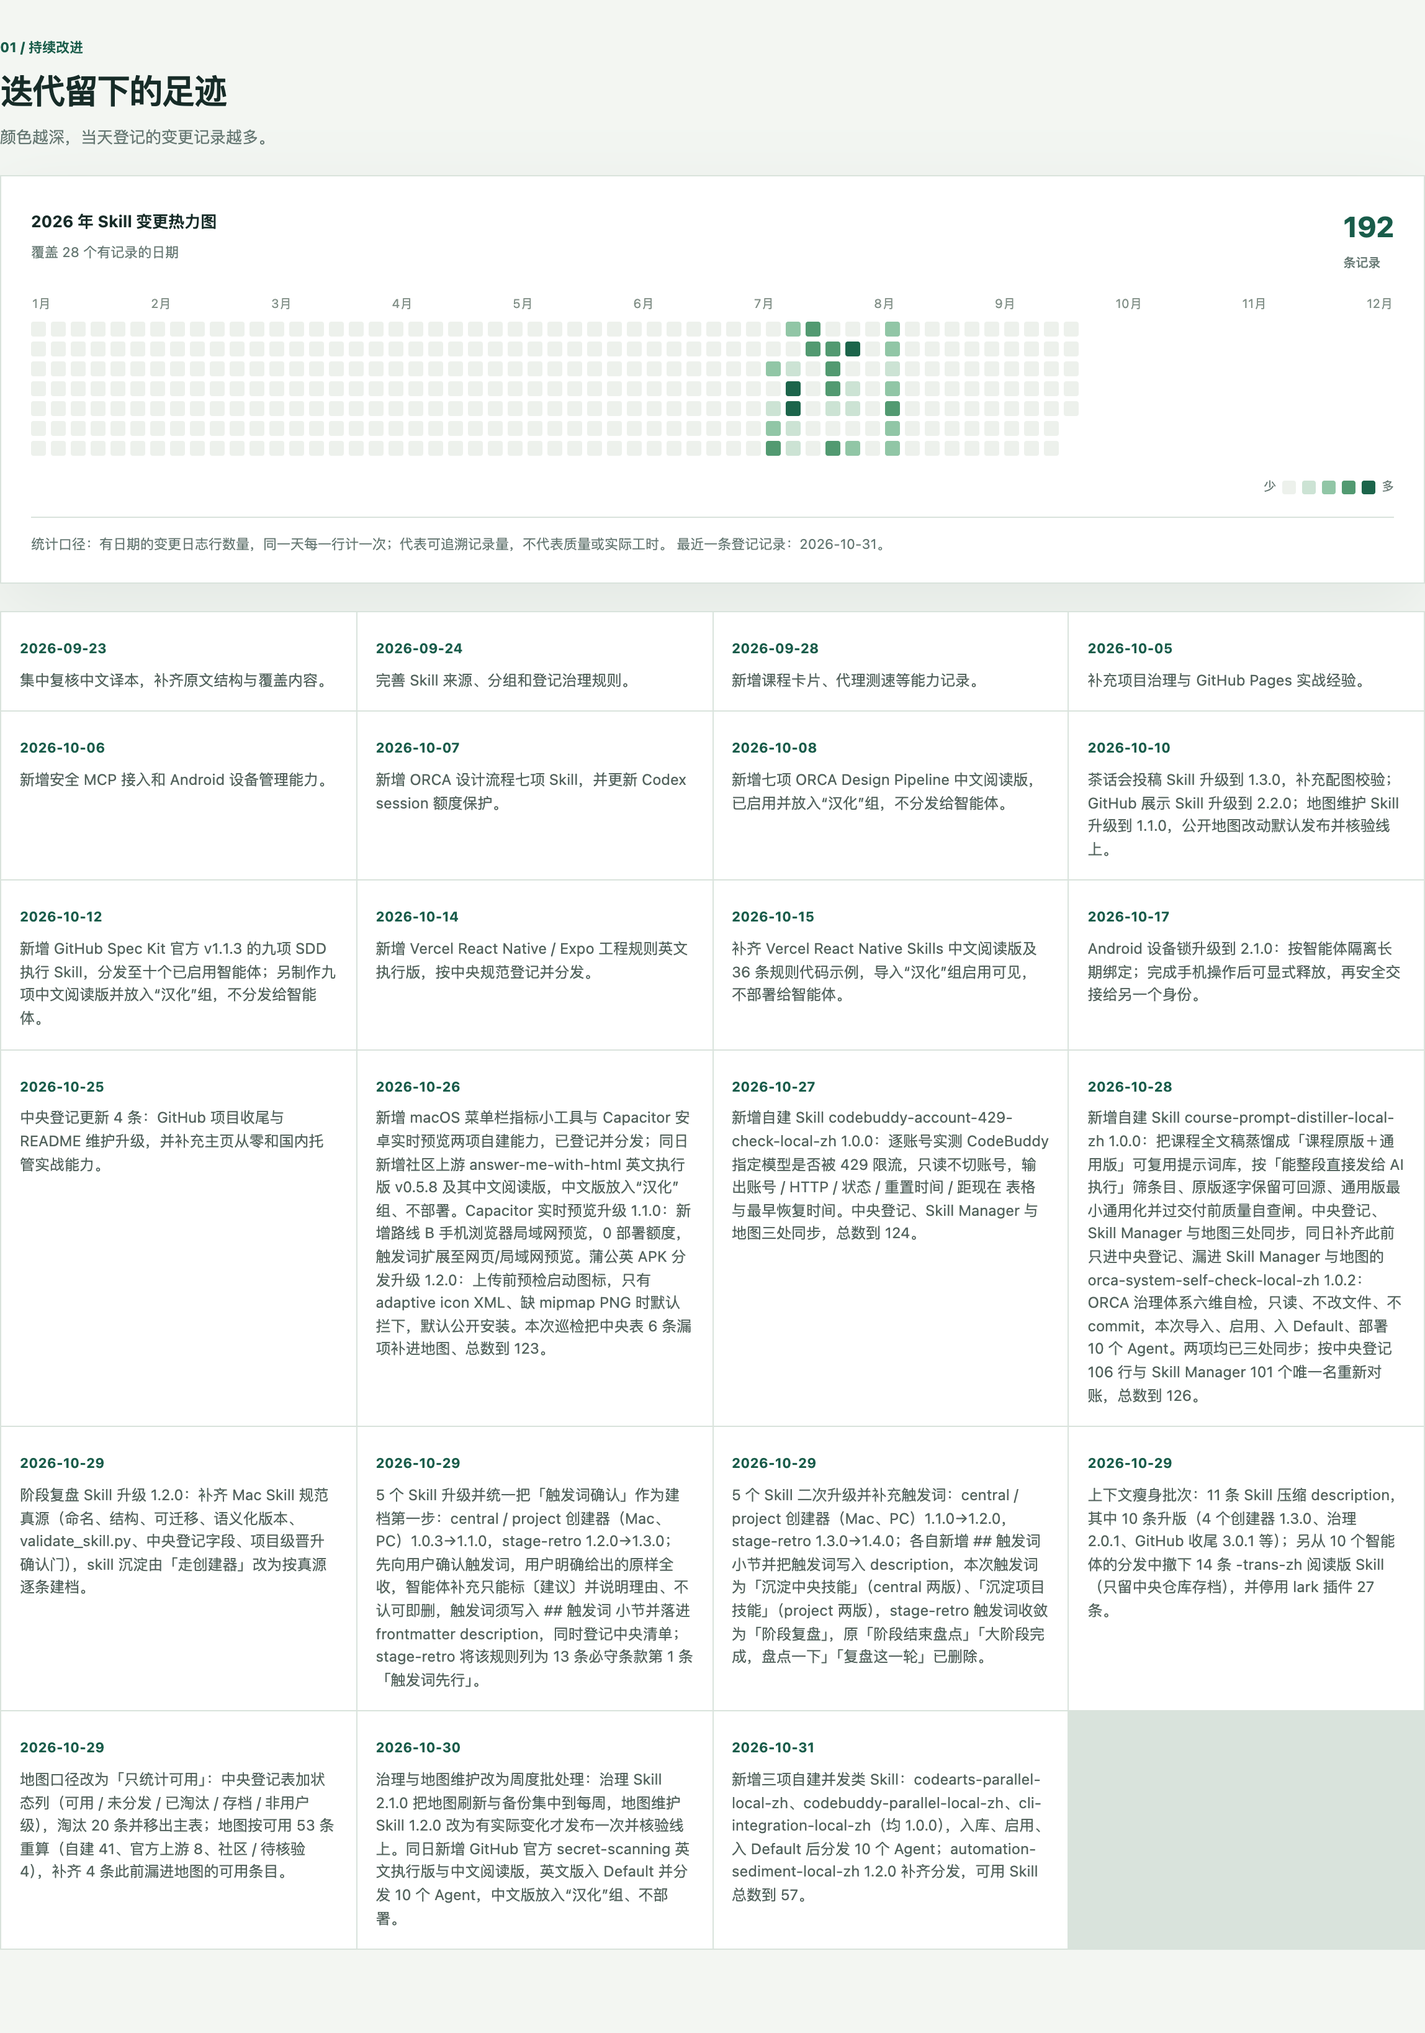
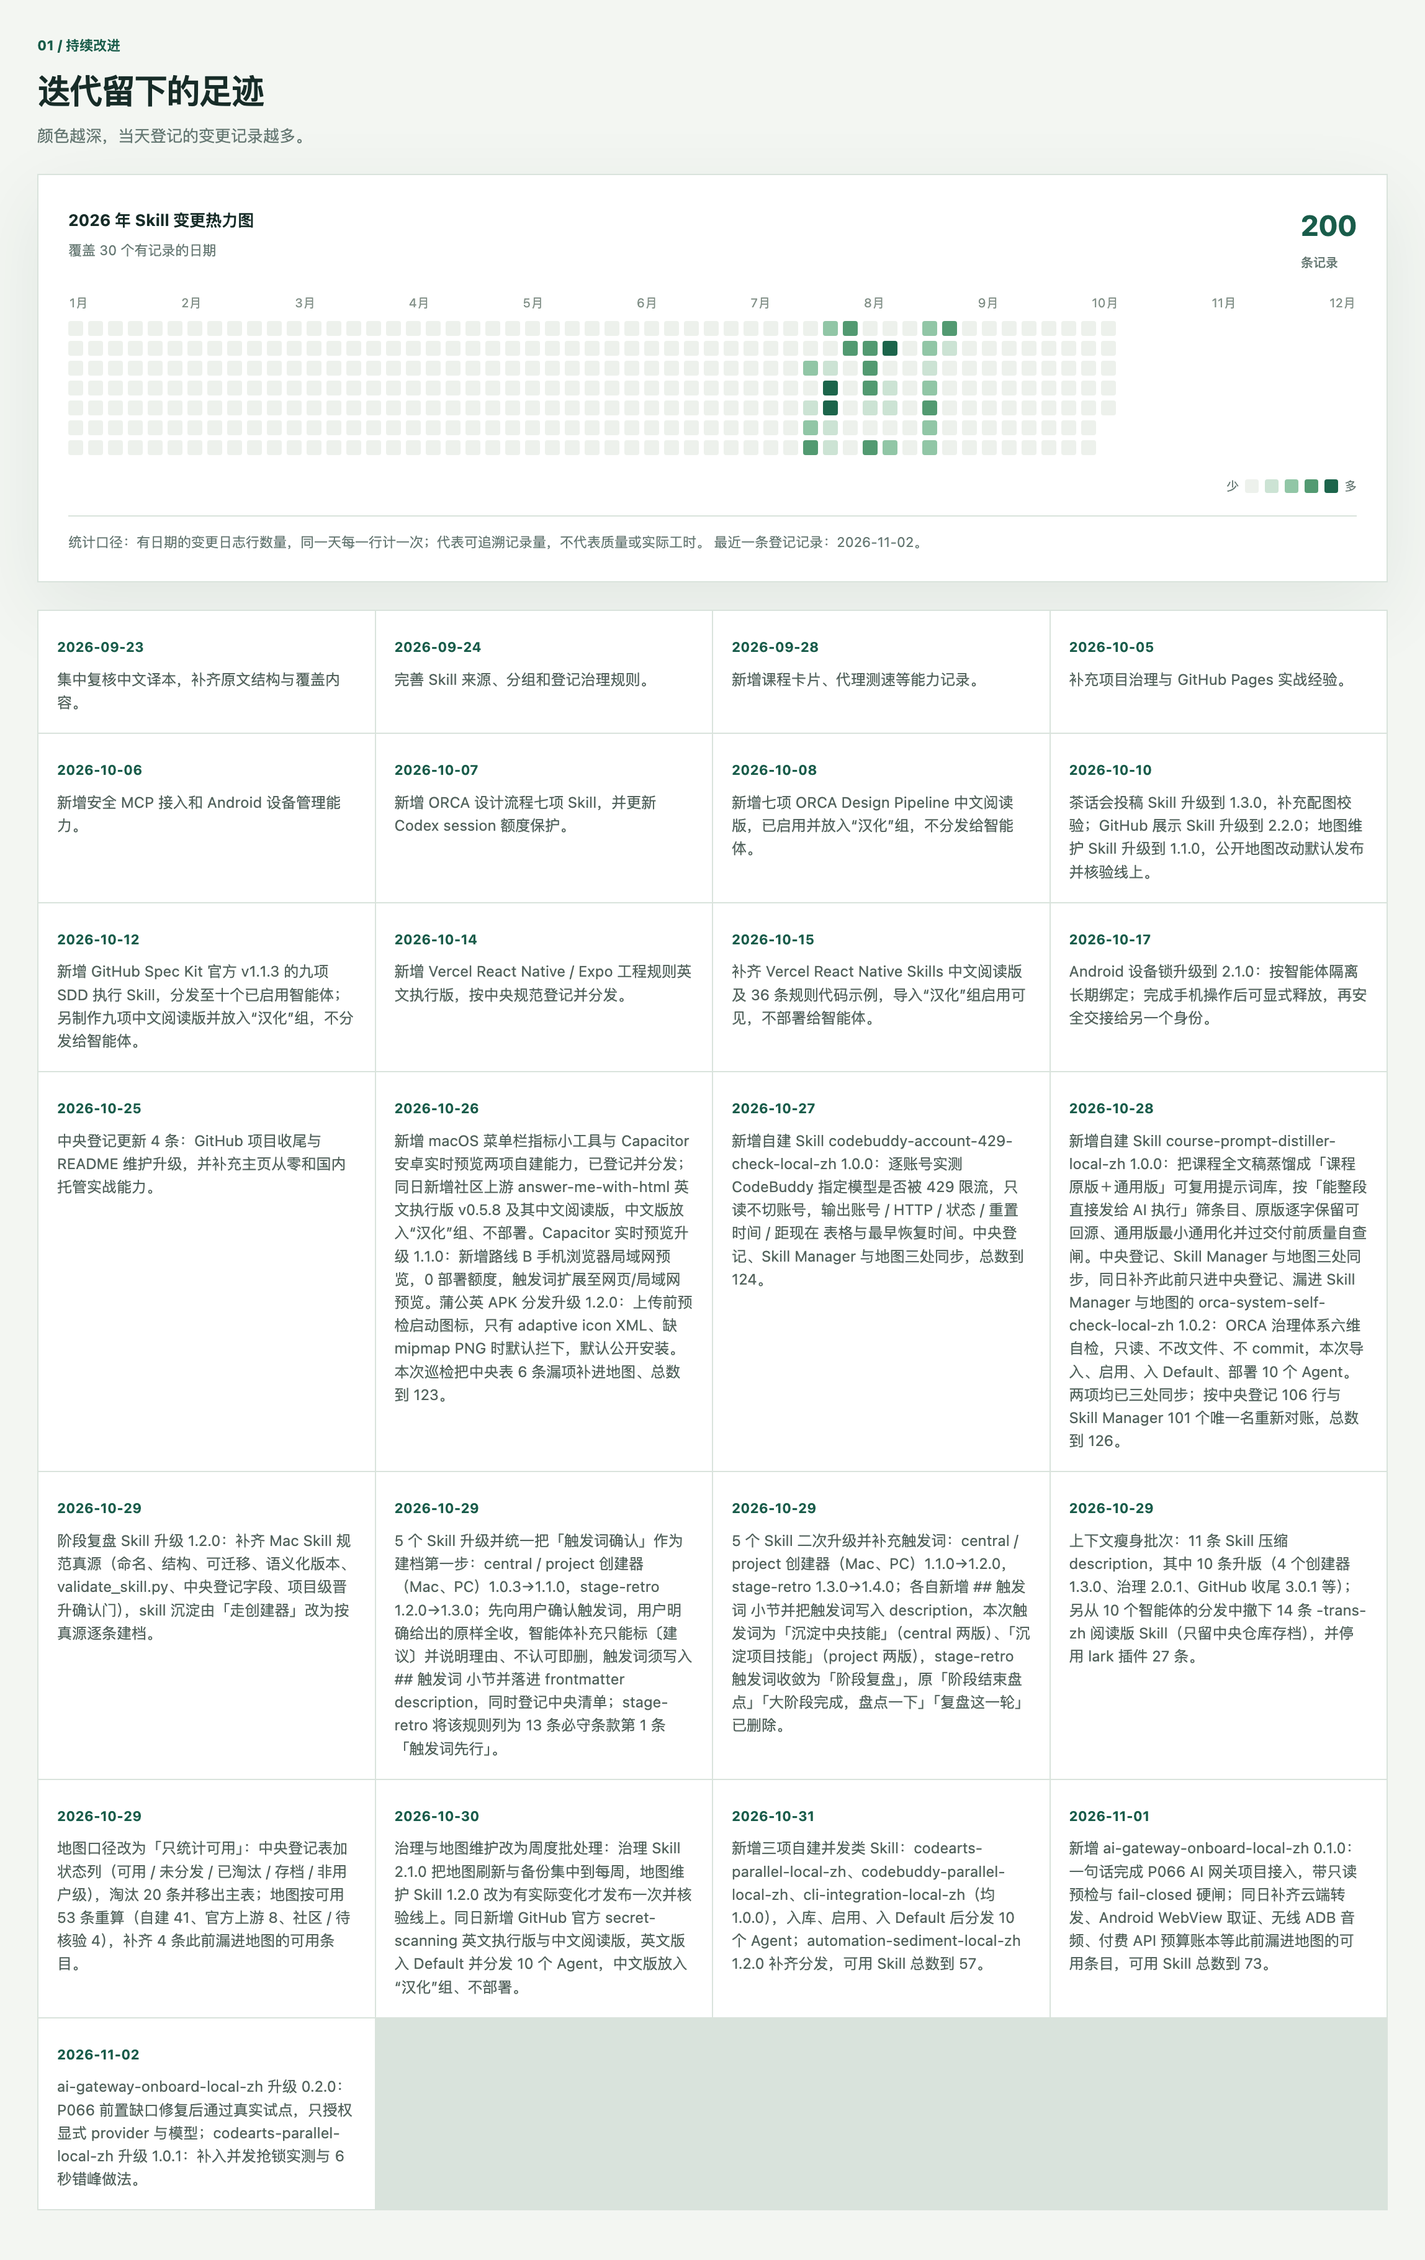
更新 Skill 地图至 2026-11-02：两条升级（ai-gateway 0.2.0、codearts-parallel 1.0.1）

diff --git a/index.html b/index.html
@@ -119,7 +119,7 @@
     }
     document.getElementById('heatMonths').innerHTML=['1月','2月','3月','4月','5月','6月','7月','8月','9月','10月','11月','12月'].map(x=>`<span>${x}</span>`).join('');
     const dated=[...data.events].sort((a,b)=>b.date.localeCompare(a.date));const latest=dated[0]?.date||'—';document.getElementById('heatCaption').textContent=`统计口径：${data.countDefinition} 最近一条登记记录：${latest}。`;
-    const highlights=[['2026-09-23','集中复核中文译本，补齐原文结构与覆盖内容。'],['2026-09-24','完善 Skill 来源、分组和登记治理规则。'],['2026-09-28','新增课程卡片、代理测速等能力记录。'],['2026-10-05','补充项目治理与 GitHub Pages 实战经验。'],['2026-10-06','新增安全 MCP 接入和 Android 设备管理能力。'],['2026-10-07','新增 ORCA 设计流程七项 Skill，并更新 Codex session 额度保护。'],['2026-10-08','新增七项 ORCA Design Pipeline 中文阅读版，已启用并放入“汉化”组，不分发给智能体。'],['2026-10-10','茶话会投稿 Skill 升级到 1.3.0，补充配图校验；GitHub 展示 Skill 升级到 2.2.0；地图维护 Skill 升级到 1.1.0，公开地图改动默认发布并核验线上。'],['2026-10-12','新增 GitHub Spec Kit 官方 v1.1.3 的九项 SDD 执行 Skill，分发至十个已启用智能体；另制作九项中文阅读版并放入“汉化”组，不分发给智能体。'],['2026-10-14','新增 Vercel React Native / Expo 工程规则英文执行版，按中央规范登记并分发。'],['2026-10-15','补齐 Vercel React Native Skills 中文阅读版及 36 条规则代码示例，导入“汉化”组启用可见，不部署给智能体。'],['2026-10-17','Android 设备锁升级到 2.1.0：按智能体隔离长期绑定；完成手机操作后可显式释放，再安全交接给另一个身份。'],['2026-10-25','中央登记更新 4 条：GitHub 项目收尾与 README 维护升级，并补充主页从零和国内托管实战能力。'],['2026-10-26','新增 macOS 菜单栏指标小工具与 Capacitor 安卓实时预览两项自建能力，已登记并分发；同日新增社区上游 answer-me-with-html 英文执行版 v0.5.8 及其中文阅读版，中文版放入“汉化”组、不部署。Capacitor 实时预览升级 1.1.0：新增路线 B 手机浏览器局域网预览，0 部署额度，触发词扩展至网页/局域网预览。蒲公英 APK 分发升级 1.2.0：上传前预检启动图标，只有 adaptive icon XML、缺 mipmap PNG 时默认拦下，默认公开安装。本次巡检把中央表 6 条漏项补进地图、总数到 123。'],['2026-10-27','新增自建 Skill codebuddy-account-429-check-local-zh 1.0.0：逐账号实测 CodeBuddy 指定模型是否被 429 限流，只读不切账号，输出账号 / HTTP / 状态 / 重置时间 / 距现在 表格与最早恢复时间。中央登记、Skill Manager 与地图三处同步，总数到 124。'],['2026-10-28','新增自建 Skill course-prompt-distiller-local-zh 1.0.0：把课程全文稿蒸馏成「课程原版＋通用版」可复用提示词库，按「能整段直接发给 AI 执行」筛条目、原版逐字保留可回源、通用版最小通用化并过交付前质量自查闸。中央登记、Skill Manager 与地图三处同步，同日补齐此前只进中央登记、漏进 Skill Manager 与地图的 orca-system-self-check-local-zh 1.0.2：ORCA 治理体系六维自检，只读、不改文件、不 commit，本次导入、启用、入 Default、部署 10 个 Agent。两项均已三处同步；按中央登记 106 行与 Skill Manager 101 个唯一名重新对账，总数到 126。'],['2026-10-29','阶段复盘 Skill 升级 1.2.0：补齐 Mac Skill 规范真源（命名、结构、可迁移、语义化版本、validate_skill.py、中央登记字段、项目级晋升确认门），skill 沉淀由「走创建器」改为按真源逐条建档。'],['2026-10-29','5 个 Skill 升级并统一把「触发词确认」作为建档第一步：central / project 创建器（Mac、PC）1.0.3→1.1.0，stage-retro 1.2.0→1.3.0；先向用户确认触发词，用户明确给出的原样全收，智能体补充只能标〔建议〕并说明理由、不认可即删，触发词须写入 ## 触发词 小节并落进 frontmatter description，同时登记中央清单；stage-retro 将该规则列为 13 条必守条款第 1 条「触发词先行」。'],['2026-10-29','5 个 Skill 二次升级并补充触发词：central / project 创建器（Mac、PC）1.1.0→1.2.0，stage-retro 1.3.0→1.4.0；各自新增 ## 触发词 小节并把触发词写入 description，本次触发词为「沉淀中央技能」（central 两版）、「沉淀项目技能」（project 两版），stage-retro 触发词收敛为「阶段复盘」，原「阶段结束盘点」「大阶段完成，盘点一下」「复盘这一轮」已删除。'],['2026-10-29','上下文瘦身批次：11 条 Skill 压缩 description，其中 10 条升版（4 个创建器 1.3.0、治理 2.0.1、GitHub 收尾 3.0.1 等）；另从 10 个智能体的分发中撤下 14 条 -trans-zh 阅读版 Skill（只留中央仓库存档），并停用 lark 插件 27 条。'],['2026-10-29','地图口径改为「只统计可用」：中央登记表加状态列（可用 / 未分发 / 已淘汰 / 存档 / 非用户级），淘汰 20 条并移出主表；地图按可用 53 条重算（自建 41、官方上游 8、社区 / 待核验 4），补齐 4 条此前漏进地图的可用条目。'],['2026-10-30','治理与地图维护改为周度批处理：治理 Skill 2.1.0 把地图刷新与备份集中到每周，地图维护 Skill 1.2.0 改为有实际变化才发布一次并核验线上。同日新增 GitHub 官方 secret-scanning 英文执行版与中文阅读版，英文版入 Default 并分发 10 个 Agent，中文版放入“汉化”组、不部署。'],['2026-10-31','新增三项自建并发类 Skill：codearts-parallel-local-zh、codebuddy-parallel-local-zh、cli-integration-local-zh（均 1.0.0），入库、启用、入 Default 后分发 10 个 Agent；automation-sediment-local-zh 1.2.0 补齐分发，可用 Skill 总数到 57。'],['2026-11-01','新增 ai-gateway-onboard-local-zh 0.1.0：一句话完成 P066 AI 网关项目接入，带只读预检与 fail-closed 硬闸；同日补齐云端转发、Android WebView 取证、无线 ADB 音频、付费 API 预算账本等此前漏进地图的可用条目，可用 Skill 总数到 73。']];
+    const highlights=[['2026-09-23','集中复核中文译本，补齐原文结构与覆盖内容。'],['2026-09-24','完善 Skill 来源、分组和登记治理规则。'],['2026-09-28','新增课程卡片、代理测速等能力记录。'],['2026-10-05','补充项目治理与 GitHub Pages 实战经验。'],['2026-10-06','新增安全 MCP 接入和 Android 设备管理能力。'],['2026-10-07','新增 ORCA 设计流程七项 Skill，并更新 Codex session 额度保护。'],['2026-10-08','新增七项 ORCA Design Pipeline 中文阅读版，已启用并放入“汉化”组，不分发给智能体。'],['2026-10-10','茶话会投稿 Skill 升级到 1.3.0，补充配图校验；GitHub 展示 Skill 升级到 2.2.0；地图维护 Skill 升级到 1.1.0，公开地图改动默认发布并核验线上。'],['2026-10-12','新增 GitHub Spec Kit 官方 v1.1.3 的九项 SDD 执行 Skill，分发至十个已启用智能体；另制作九项中文阅读版并放入“汉化”组，不分发给智能体。'],['2026-10-14','新增 Vercel React Native / Expo 工程规则英文执行版，按中央规范登记并分发。'],['2026-10-15','补齐 Vercel React Native Skills 中文阅读版及 36 条规则代码示例，导入“汉化”组启用可见，不部署给智能体。'],['2026-10-17','Android 设备锁升级到 2.1.0：按智能体隔离长期绑定；完成手机操作后可显式释放，再安全交接给另一个身份。'],['2026-10-25','中央登记更新 4 条：GitHub 项目收尾与 README 维护升级，并补充主页从零和国内托管实战能力。'],['2026-10-26','新增 macOS 菜单栏指标小工具与 Capacitor 安卓实时预览两项自建能力，已登记并分发；同日新增社区上游 answer-me-with-html 英文执行版 v0.5.8 及其中文阅读版，中文版放入“汉化”组、不部署。Capacitor 实时预览升级 1.1.0：新增路线 B 手机浏览器局域网预览，0 部署额度，触发词扩展至网页/局域网预览。蒲公英 APK 分发升级 1.2.0：上传前预检启动图标，只有 adaptive icon XML、缺 mipmap PNG 时默认拦下，默认公开安装。本次巡检把中央表 6 条漏项补进地图、总数到 123。'],['2026-10-27','新增自建 Skill codebuddy-account-429-check-local-zh 1.0.0：逐账号实测 CodeBuddy 指定模型是否被 429 限流，只读不切账号，输出账号 / HTTP / 状态 / 重置时间 / 距现在 表格与最早恢复时间。中央登记、Skill Manager 与地图三处同步，总数到 124。'],['2026-10-28','新增自建 Skill course-prompt-distiller-local-zh 1.0.0：把课程全文稿蒸馏成「课程原版＋通用版」可复用提示词库，按「能整段直接发给 AI 执行」筛条目、原版逐字保留可回源、通用版最小通用化并过交付前质量自查闸。中央登记、Skill Manager 与地图三处同步，同日补齐此前只进中央登记、漏进 Skill Manager 与地图的 orca-system-self-check-local-zh 1.0.2：ORCA 治理体系六维自检，只读、不改文件、不 commit，本次导入、启用、入 Default、部署 10 个 Agent。两项均已三处同步；按中央登记 106 行与 Skill Manager 101 个唯一名重新对账，总数到 126。'],['2026-10-29','阶段复盘 Skill 升级 1.2.0：补齐 Mac Skill 规范真源（命名、结构、可迁移、语义化版本、validate_skill.py、中央登记字段、项目级晋升确认门），skill 沉淀由「走创建器」改为按真源逐条建档。'],['2026-10-29','5 个 Skill 升级并统一把「触发词确认」作为建档第一步：central / project 创建器（Mac、PC）1.0.3→1.1.0，stage-retro 1.2.0→1.3.0；先向用户确认触发词，用户明确给出的原样全收，智能体补充只能标〔建议〕并说明理由、不认可即删，触发词须写入 ## 触发词 小节并落进 frontmatter description，同时登记中央清单；stage-retro 将该规则列为 13 条必守条款第 1 条「触发词先行」。'],['2026-10-29','5 个 Skill 二次升级并补充触发词：central / project 创建器（Mac、PC）1.1.0→1.2.0，stage-retro 1.3.0→1.4.0；各自新增 ## 触发词 小节并把触发词写入 description，本次触发词为「沉淀中央技能」（central 两版）、「沉淀项目技能」（project 两版），stage-retro 触发词收敛为「阶段复盘」，原「阶段结束盘点」「大阶段完成，盘点一下」「复盘这一轮」已删除。'],['2026-10-29','上下文瘦身批次：11 条 Skill 压缩 description，其中 10 条升版（4 个创建器 1.3.0、治理 2.0.1、GitHub 收尾 3.0.1 等）；另从 10 个智能体的分发中撤下 14 条 -trans-zh 阅读版 Skill（只留中央仓库存档），并停用 lark 插件 27 条。'],['2026-10-29','地图口径改为「只统计可用」：中央登记表加状态列（可用 / 未分发 / 已淘汰 / 存档 / 非用户级），淘汰 20 条并移出主表；地图按可用 53 条重算（自建 41、官方上游 8、社区 / 待核验 4），补齐 4 条此前漏进地图的可用条目。'],['2026-10-30','治理与地图维护改为周度批处理：治理 Skill 2.1.0 把地图刷新与备份集中到每周，地图维护 Skill 1.2.0 改为有实际变化才发布一次并核验线上。同日新增 GitHub 官方 secret-scanning 英文执行版与中文阅读版，英文版入 Default 并分发 10 个 Agent，中文版放入“汉化”组、不部署。'],['2026-10-31','新增三项自建并发类 Skill：codearts-parallel-local-zh、codebuddy-parallel-local-zh、cli-integration-local-zh（均 1.0.0），入库、启用、入 Default 后分发 10 个 Agent；automation-sediment-local-zh 1.2.0 补齐分发，可用 Skill 总数到 57。'],['2026-11-01','新增 ai-gateway-onboard-local-zh 0.1.0：一句话完成 P066 AI 网关项目接入，带只读预检与 fail-closed 硬闸；同日补齐云端转发、Android WebView 取证、无线 ADB 音频、付费 API 预算账本等此前漏进地图的可用条目，可用 Skill 总数到 73。'],['2026-11-02','ai-gateway-onboard-local-zh 升级 0.2.0：P066 前置缺口修复后通过真实试点，只授权显式 provider 与模型；codearts-parallel-local-zh 升级 1.0.1：补入并发抢锁实测与 6 秒错峰做法。']];
     document.getElementById('recent').innerHTML=highlights.map(([date,text])=>`<article><time>${date}</time><p>${escapeHtml(text)}</p></article>`).join('');
   }
   load().catch(err=>{document.getElementById('skillRows').innerHTML=`<tr><td colspan="5" class="empty">${escapeHtml(err.message)}。请稍后刷新页面。</td></tr>`;document.getElementById('heatSub').textContent='迭代记录暂时不可用'});

diff --git a/README.en.md b/README.en.md
@@ -24,7 +24,7 @@ Domains include life management, travel, requirements, project collaboration, UI
 
 ## Public data snapshot
 
-The public page reflects a data snapshot from **2026-11-01**, with 73 “available” Skills. Only entries marked “available” in the central registry are counted; archived, undistributed, and non-user-level entries are excluded. Translations and their English originals are listed separately. Community contributions and entries with unverified sources are labeled “Community / Unverified.”
+The public page reflects a data snapshot from **2026-11-02**, with 73 “available” Skills. Only entries marked “available” in the central registry are counted; archived, undistributed, and non-user-level entries are excluded. Translations and their English originals are listed separately. Community contributions and entries with unverified sources are labeled “Community / Unverified.”
 
 | Source | Count | Description |
 | --- | ---: | --- |

diff --git a/README.md b/README.md
@@ -24,7 +24,7 @@
 
 ## 当前公开数据
 
-公开页面的数据快照截至 **2026-11-01**，共 73 个「可用」Skill。口径只统计中央登记中状态为「可用」的条目；存档、未分发、非用户级条目不进入地图。翻译版与英文原版作为独立条目展示；社区作品和来源尚未确认的条目归入“社区 / 待核验”。
+公开页面的数据快照截至 **2026-11-02**，共 73 个「可用」Skill。口径只统计中央登记中状态为「可用」的条目；存档、未分发、非用户级条目不进入地图。翻译版与英文原版作为独立条目展示；社区作品和来源尚未确认的条目归入“社区 / 待核验”。
 
 | 来源 | 数量 | 说明 |
 | --- | ---: | --- |
